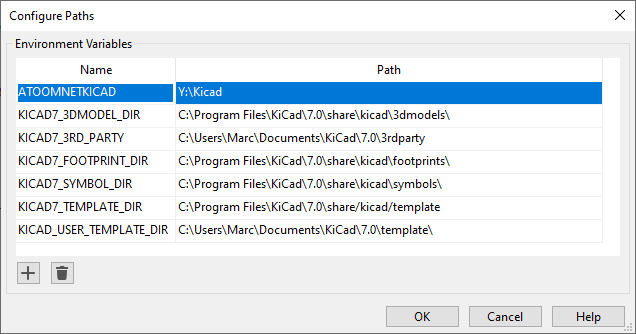
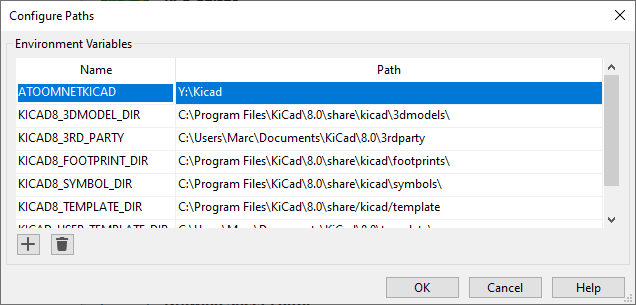
Kicad 7 → 8.

diff --git a/README.md b/README.md
@@ -1,8 +1,8 @@
-This repository contains my personal collection of Kicad 7 symbols, footprints and 3d models I use in my Kicad projects.
+This repository contains my personal collection of Kicad 8 symbols, footprints and 3d models I use in my Kicad projects.
 
 Please note that not all symbols, footprints or 3d models have been been validated and/or production tested and should be assumed to be wildly incorrect. When you choose to use this library for any reason, please validate everything yourself.
 
-Please configure your [Kicad Paths](https://docs.kicad.org/7.0/en/kicad/kicad.html#paths_configuration) and add `${ATOOMNETKICAD}` to point to the directory this repository has been cloned to.
+Please configure your [Kicad Paths](https://docs.kicad.org/8.0/en/kicad/kicad.html#paths_configuration) and add `${ATOOMNETKICAD}` to point to the directory this repository has been cloned to.
 
 ![](configure-paths.png)
 
